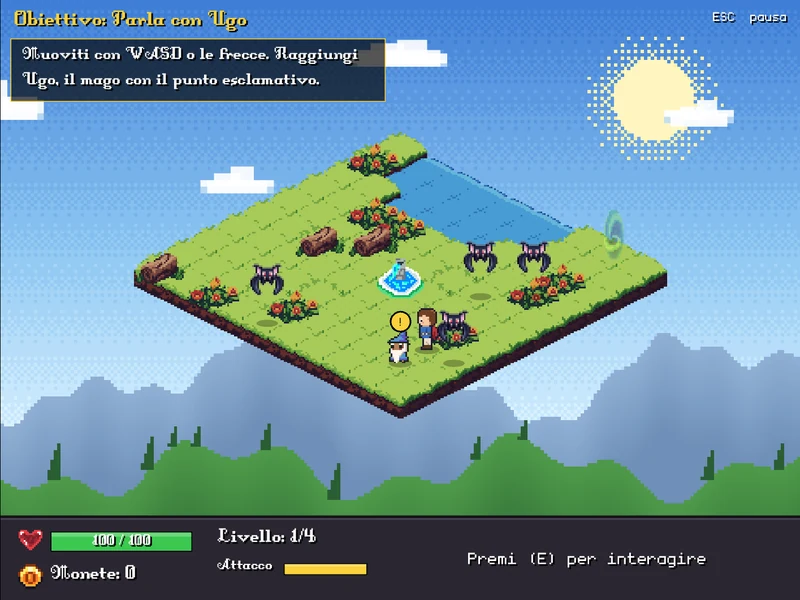
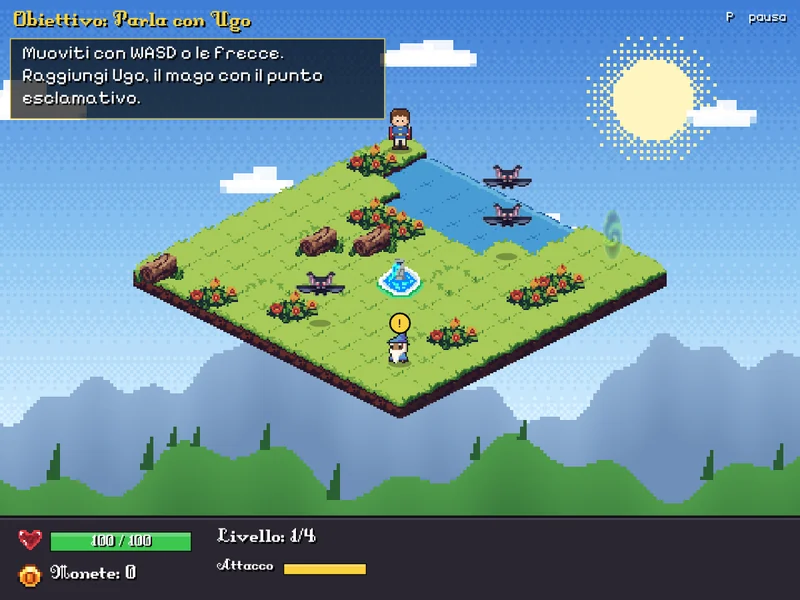
fix(mobile): layout con testo di sistema ingrandito e rifiniture dell'audit mobile
- Home: il menu passa da 2 (o 4) colonne a 1 con il testo ingrandito
  (container query in em), e oltre il 200% foto, nome e menu si
  impilano; "@vincenzo<wbr>allocca" va a capo tra le due parole.
- Titoli delle pagine interne e "HASTE" della home limitati alla
  larghezza della card (cqi); schede dei fatti ed elenco progetti
  scendono a una colonna invece di uscire dalla card.
- Testi a 12 px: contatore BUMP, stato, opzioni di condivisione,
  etichette Tech stack.
- Hover solo con un puntatore (pagine interne e 404); 404 con
  text-size-adjust per iOS in orizzontale.
- Nemici Miei: nuova schermata catturata dal gioco, 800 px e 1200 px
  con srcset (nitida sugli schermi 3x, 66 KB invece di 75 KB), alt e
  dati strutturati aggiornati.

A dimensione normale l'aspetto resta identico (altezze delle pagine
entro 2 px su 10 dispositivi).

diff --git a/index.html b/index.html
@@ -325,14 +325,14 @@ nav a:active{transform:scale(.98)}
 .bump-btn[aria-busy="true"]{cursor:progress;opacity:.85}
 .bump-main{display:inline-flex;align-items:center;gap:.4rem;font-family:var(--display);font-size:1rem;font-weight:800;font-stretch:115%;letter-spacing:.04em;line-height:1.1}
 .bump-ic{font-size:1.05rem;line-height:1}
-.bump-count{font-size:.72rem;font-weight:600;color:var(--accent-hi);font-variant-numeric:tabular-nums;line-height:1.3}
+.bump-count{font-size:.75rem;font-weight:600;color:var(--accent-hi);font-variant-numeric:tabular-nums;line-height:1.3}
 .bump-btn[data-state="bumped"]{border-color:rgba(244,114,182,.5);background:linear-gradient(135deg,rgba(244,114,182,.2),rgba(169,155,255,.16));box-shadow:inset 0 1px 0 rgba(255,255,255,.22)}
 .bump-btn[data-state="bumped"] .bump-main{font-size:.82rem;letter-spacing:.03em}
 .share-panel{width:100%;display:grid;grid-template-columns:1fr;gap:.25rem}
 .share-panel[hidden]{display:none}
 .share-opt{
   display:flex;align-items:center;gap:.45rem;min-height:2.2rem;padding:.3rem .6rem;border-radius:.7rem;
-  font-family:var(--font-body);font-size:.74rem;font-weight:600;line-height:1.2;text-align:left;color:var(--text-secondary);
+  font-family:var(--font-body);font-size:.75rem;font-weight:600;line-height:1.2;text-align:left;color:var(--text-secondary);
   border:1px solid rgba(255,255,255,.1);background:rgba(255,255,255,.03);
   transition:background .2s,border-color .2s,color .2s,transform .2s;
 }
@@ -341,8 +341,8 @@ nav a:active{transform:scale(.98)}
 .share-opt:active{transform:scale(.97)}
 .share-opt[hidden]{display:none}
 .status:empty{min-height:0}
-.status{min-height:1.2em;font-size:.74rem;color:var(--accent-hi);text-align:center;transition:opacity .2s}
-.status .s2{display:block;margin-top:.1rem;font-size:.7rem;color:var(--text-secondary)}
+.status{min-height:1.2em;font-size:.75rem;color:var(--accent-hi);text-align:center;transition:opacity .2s}
+.status .s2{display:block;margin-top:.1rem;font-size:.75rem;color:var(--text-secondary)}
 
 /* ───────── CONTENUTO PRINCIPALE ───────── */
 /* Indicatore "c'è altro" della card con scroll interno (solo desktop): compare finché resta contenuto
@@ -431,11 +431,11 @@ h2{font-family:var(--display);font-size:1rem;font-weight:680;font-stretch:110%;l
 
 /* Progetto in evidenza: HASTE */
 .feature{
-  border-color:rgba(169,155,255,.5);padding:1.15rem 1.1rem;
+  container-type:inline-size;border-color:rgba(169,155,255,.5);padding:1.15rem 1.1rem;
   background:linear-gradient(155deg,rgba(140,194,255,.2),rgba(169,155,255,.12) 55%,rgba(244,114,182,.08)),rgba(5,8,28,.38);
   box-shadow:inset 0 1px 0 rgba(255,255,255,.3),0 0 0 1px rgba(169,155,255,.14),0 14px 34px -12px rgba(124,183,255,.35);
 }
-.feature h2{font-size:clamp(1.9rem,8vw,2.3rem);font-weight:800;font-stretch:125%;letter-spacing:-.04em;line-height:1;margin-bottom:.35rem}
+.feature h2{font-size:min(clamp(1.9rem,8vw,2.3rem),22cqi);font-weight:800;font-stretch:125%;letter-spacing:-.04em;line-height:1;margin-bottom:.35rem}
 .feature .role{font-size:.84rem;font-weight:600;color:var(--accent-hi);margin-bottom:.6rem}
 
 .chips{display:flex;flex-wrap:wrap;gap:.35rem;margin-top:.65rem}
@@ -501,14 +501,23 @@ a.tile:active{background-color:rgba(60,80,170,.55)}
   .o3{left:28%;bottom:-6rem}
   .o4{left:auto;right:8%;top:1%}
   .ring{left:auto;right:-3rem;top:18%}
-  .wrap{flex-direction:column;justify-content:flex-start;align-items:stretch;gap:1rem;max-width:32rem;margin:0 auto;padding:1rem}
-  .side{width:100%;display:grid;grid-template-columns:auto 1fr;grid-template-areas:"av nick" "av quote" "line line" "nav nav" "act act";align-items:center;column-gap:1rem;row-gap:.15rem;padding:1rem}
+  .wrap{flex-direction:column;justify-content:flex-start;align-items:stretch;gap:1rem;max-width:32rem;margin:0 auto;padding:1rem;container:wrap/inline-size}
+  .side{width:100%;display:grid;grid-template-columns:auto minmax(0,1fr);grid-template-areas:"av nick" "av quote" "line line" "nav nav" "act act";align-items:center;column-gap:1rem;row-gap:.15rem;padding:1rem}
   .avatar{grid-area:av;margin-bottom:.2rem}
-  .avatar img{width:4.5rem;height:4.5rem}
-  .side .nick{grid-area:nick;align-self:end;text-align:left}.side .quote{grid-area:quote;align-self:start;text-align:left;white-space:normal}
+  .avatar img{width:min(4.5rem,22vw);height:min(4.5rem,22vw)} /* con il testo molto ingrandito la foto non spinge fuori nome e menu */
+  .side .nick{grid-area:nick;align-self:end;text-align:left}.side .quote{grid-area:quote;align-self:start;text-align:left;white-space:normal;overflow-wrap:break-word}
   hr{grid-area:line;margin:.45rem 0}
-  nav{grid-area:nav}
-  nav ul{display:grid;grid-template-columns:repeat(2,1fr);gap:.45rem}
+  nav{grid-area:nav;container-type:inline-size}
+  nav ul{display:grid;grid-template-columns:repeat(2,minmax(0,1fr));gap:.45rem}
+  /* Le soglie sono in em: con il testo di sistema ingrandito le schede passano da 2 colonne a 1 invece di uscire dalla card */
+  @container (max-width:14.75em){nav ul{grid-template-columns:minmax(0,1fr)}}
+  /* Testo molto ingrandito (colonna sotto 18em; a dimensione normale anche i telefoni da 320 px restano sopra 19em):
+     foto, nome e menu uno sotto l'altro, come nella barra laterale del desktop, invece di spezzare il nome */
+  @container wrap (max-width:18em){
+    .side{grid-template-columns:minmax(0,1fr);grid-template-areas:"av" "nick" "quote" "line" "nav" "act"}
+    .avatar{justify-self:center}
+    .side .nick,.side .quote{text-align:center;align-self:auto}
+  }
   nav li{width:100%}
   nav a{width:100%;min-height:2.75rem;background:rgba(255,255,255,.06);border:1px solid rgba(255,255,255,.16);justify-content:center}
   .side-actions{grid-area:act;margin-top:.4rem}
@@ -521,11 +530,12 @@ a.tile:active{background-color:rgba(60,80,170,.55)}
   .tile{flex:1;width:auto;min-height:8rem;font-size:.82rem}
   .tile .mini b{font-size:.86rem}
   .tile .mini span{font-size:.78rem}
-  .tile .chips li{font-size:.74rem;padding:.1rem .55rem}
+  .tile .chips li{font-size:.75rem;padding:.1rem .5rem}
 }
 @media (min-width:600px) and (max-width:900px){
   .wrap{max-width:38rem;padding:1.5rem}
-  nav ul{grid-template-columns:repeat(4,1fr)}
+  @container (min-width:13em){nav ul{grid-template-columns:repeat(2,minmax(0,1fr))}}
+  @container (min-width:26.5em){nav ul{grid-template-columns:repeat(4,minmax(0,1fr))}}
   nav a{padding:.4rem .4rem;gap:.35rem}
 }
 @media (max-width:540px){
@@ -538,7 +548,7 @@ a.tile:active{background-color:rgba(60,80,170,.55)}
 @media (max-height:500px) and (orientation:landscape) and (max-width:900px){
   .side .quote{display:none}
   .avatar img{width:3rem;height:3rem}
-  nav ul{grid-template-columns:repeat(4,1fr)}
+  @container (min-width:29.75em){nav ul{grid-template-columns:repeat(4,minmax(0,1fr))}}
 }
 @media (max-width:380px){
   .wrap{padding:.75rem}
@@ -547,11 +557,13 @@ a.tile:active{background-color:rgba(60,80,170,.55)}
   .side .nick{font-size:.95rem}
   .side .quote{font-size:.75rem}
   nav a{padding:.35rem .35rem;gap:.35rem}
+  @container (min-width:12.75em){nav ul{grid-template-columns:repeat(2,minmax(0,1fr))}}
   .projects a{padding:.5rem .6rem}
 }
 @media (max-width:330px){
   .wrap{padding:.5rem}
   nav a{font-size:.84rem;padding:.35rem .25rem;gap:.3rem}
+  @container (min-width:11.6em){nav ul{grid-template-columns:repeat(2,minmax(0,1fr))}}
   .avatar img{width:3.25rem;height:3.25rem}
 }
 
@@ -583,7 +595,7 @@ a.tile:active{background-color:rgba(60,80,170,.55)}
 <div class="wrap">
   <header class="glass side">
     <div class="avatar"><img src="assets/profilo.webp" alt="Foto profilo di Vincenzo Allocca" width="96" height="96" fetchpriority="high" decoding="async"></div>
-    <p class="nick">@vincenzoallocca</p>
+    <p class="nick">@vincenzo<wbr>allocca</p>
     <p class="quote">Software Developer, fondatore di HASTE</p>
     <hr>
     <nav aria-label="Menu principale">

diff --git a/assets/css/pagina.css b/assets/css/pagina.css
@@ -36,7 +36,6 @@ body{
   padding:env(safe-area-inset-top) env(safe-area-inset-right) env(safe-area-inset-bottom) env(safe-area-inset-left);
 }
 a{color:var(--accent-hi);text-decoration:underline;text-decoration-color:rgba(191,224,255,.45);text-underline-offset:.18em}
-a:hover{color:#fff;text-decoration-color:currentColor}
 a:focus-visible,button:focus-visible{outline:2px solid var(--accent-hi);outline-offset:3px;border-radius:.4rem}
 ::selection{background:rgba(140,194,255,.4);color:#fff}
 .skip{position:absolute;left:.75rem;top:-5rem;z-index:10;display:inline-flex;align-items:center;min-height:2.75rem;padding:.6rem 1rem;border-radius:.8rem;background:#0e1432;color:#fff;border:1px solid var(--edge);font-weight:600;text-decoration:none;transition:top .2s}
@@ -58,9 +57,10 @@ a:focus-visible,button:focus-visible{outline:2px solid var(--accent-hi);outline-
   box-shadow:inset 0 1px 0 rgba(255,255,255,.22),0 24px 60px -12px rgba(0,0,0,.55);
 }
 .card+.card{margin-top:1rem}
-.hero{border-color:rgba(169,155,255,.5);background:linear-gradient(155deg,rgba(140,194,255,.2),rgba(169,155,255,.12) 55%,rgba(244,114,182,.08)),rgba(10,15,42,.72)}
-h1{font-size:clamp(2.2rem,8vw,3.2rem);line-height:1;font-weight:800;font-stretch:125%;letter-spacing:-.04em;color:#fff;margin:.1rem 0 .7rem;text-wrap:balance}
-h2{font-size:1.25rem;font-weight:720;font-stretch:112%;letter-spacing:-.02em;line-height:1.2;color:#fff;margin-bottom:.6rem;text-wrap:balance}
+.hero{container-type:inline-size;border-color:rgba(169,155,255,.5);background:linear-gradient(155deg,rgba(140,194,255,.2),rgba(169,155,255,.12) 55%,rgba(244,114,182,.08)),rgba(10,15,42,.72)}
+/* min(…,13cqi): con il testo di sistema molto ingrandito il titolo si adatta alla card invece di uscirne; a dimensione normale vale sempre il clamp */
+h1{font-size:min(clamp(2.2rem,8vw,3.2rem),13cqi);overflow-wrap:break-word;line-height:1;font-weight:800;font-stretch:125%;letter-spacing:-.04em;color:#fff;margin:.1rem 0 .7rem;text-wrap:balance}
+h2{font-size:1.25rem;font-weight:720;font-stretch:112%;letter-spacing:-.02em;line-height:1.2;color:#fff;margin-bottom:.6rem;text-wrap:balance;overflow-wrap:break-word}
 h3{font-size:1rem;font-weight:680;color:var(--accent-hi);margin:1rem 0 .3rem}
 p{color:#e2ecff}
 p+p{margin-top:.65rem}
@@ -70,7 +70,7 @@ p+p{margin-top:.65rem}
 .card li+li{margin-top:.35rem}
 .card li::marker{color:var(--accent)}
 
-.facts{display:grid;grid-template-columns:repeat(auto-fit,minmax(8.5rem,1fr));gap:.6rem;margin-top:1rem}
+.facts{display:grid;grid-template-columns:repeat(auto-fit,minmax(min(100%,8.5rem),1fr));gap:.6rem;margin-top:1rem}
 .facts div{padding:.65rem .8rem;border-radius:.9rem;background:rgba(255,255,255,.05);border:1px solid rgba(255,255,255,.1)}
 .facts dt{font-size:.78rem;font-weight:600;color:var(--muted);text-transform:uppercase;letter-spacing:.06em}
 .facts dd{font-weight:650;color:#fff;line-height:1.35}
@@ -88,14 +88,12 @@ p+p{margin-top:.65rem}
   box-shadow:inset 0 1px 0 rgba(255,255,255,.3),0 6px 16px -6px rgba(0,0,0,.4);
   transition:background .2s var(--ease),border-color .2s var(--ease);
 }
-.btn:hover{background:linear-gradient(135deg,rgba(140,194,255,.45),rgba(169,155,255,.36));border-color:rgba(255,255,255,.35)}
 .btn.ghost{background:rgba(255,255,255,.04)}
 
 .note{font-size:.85rem;color:var(--muted);margin-top:.9rem}
-.list{list-style:none;padding:0!important;display:grid;gap:.6rem}
+.list{list-style:none;padding:0!important;display:grid;grid-template-columns:minmax(0,1fr);gap:.6rem}
 .list li{margin:0!important}
-.list a{display:block;padding:.8rem .95rem;border-radius:1rem;background:rgba(255,255,255,.05);border:1px solid rgba(255,255,255,.12);text-decoration:none}
-.list a:hover{background:rgba(255,255,255,.1);border-color:rgba(255,255,255,.24)}
+.list a{display:block;overflow-wrap:break-word;padding:.8rem .95rem;border-radius:1rem;background:rgba(255,255,255,.05);border:1px solid rgba(255,255,255,.12);text-decoration:none}
 .list b{display:block;color:#fff}
 .list span{display:block;color:var(--muted);font-size:.9rem}
 
@@ -138,4 +136,11 @@ p,li{text-wrap:pretty}
   font-size:1.15rem;font-weight:750;color:#fff;text-decoration:none;background:rgba(140,20,20,.92);border:2px solid #fff;
   box-shadow:0 10px 30px -6px rgba(0,0,0,.7);transition:transform .2s var(--ease),background .2s var(--ease)}
 .play::before{content:"▶ "}
-.play:hover{color:#fff;background:#b41e1e;transform:scale(1.05)}
+
+/* Effetti al passaggio del puntatore solo dove c'è un puntatore: sui telefoni non restano accesi dopo il tocco */
+@media (hover:hover){
+  a:hover{color:#fff;text-decoration-color:currentColor}
+  .btn:hover{background:linear-gradient(135deg,rgba(140,194,255,.45),rgba(169,155,255,.36));border-color:rgba(255,255,255,.35)}
+  .list a:hover{background:rgba(255,255,255,.1);border-color:rgba(255,255,255,.24)}
+  .play:hover{color:#fff;background:#b41e1e;transform:scale(1.05)}
+}

diff --git a/progetti/nemici-miei/index.html b/progetti/nemici-miei/index.html
@@ -37,12 +37,12 @@
       "name": "Nemici Miei: gioca nel browser",
       "description": "Nemici Miei, gioco d'avventura isometrico nato per il PCTO 2024–2025 e riscritto in Rust, giocabile nel browser anche da telefono.",
       "inLanguage": "it-IT",
-      "dateModified": "2026-11-22T14:00:00+01:00",
+      "dateModified": "2026-11-23T15:39:15+01:00",
       "isPartOf": { "@id": "https://vincenzoallocca.dev/#website" },
       "about": { "@id": "https://vincenzoallocca.dev/progetti/nemici-miei/#gioco" },
       "author": { "@id": "https://vincenzoallocca.dev/#person" },
       "breadcrumb": { "@id": "https://vincenzoallocca.dev/progetti/nemici-miei/#breadcrumb" },
-      "primaryImageOfPage": "https://vincenzoallocca.dev/assets/nemici-miei.webp"
+      "primaryImageOfPage": "https://vincenzoallocca.dev/assets/nemici-miei-1200.webp"
     },
     {
       "@type": "BreadcrumbList",
@@ -65,7 +65,7 @@
       "name": "Nemici Miei",
       "description": "Gioco d'avventura in vista isometrica in quattro livelli: parla con Ugo, bevi alla fontanella, sconfiggi lo stormo sulla spiaggia, raccogli le monete tra le rovine e sconfiggi il boss.",
       "url": "https://vincenzoallocca.dev/progetti/nemici-miei/",
-      "image": "https://vincenzoallocca.dev/assets/nemici-miei.webp",
+      "image": "https://vincenzoallocca.dev/assets/nemici-miei-1200.webp",
       "genre": "Avventura",
       "gamePlatform": ["Browser web", "PC"],
       "applicationCategory": "Game",
@@ -126,7 +126,7 @@
       <section class="card" aria-labelledby="gioca">
         <h2 id="gioca">Gioca</h2>
         <div class="gioco" id="gioco">
-          <img src="/assets/nemici-miei.webp" alt="Schermata di Nemici Miei: l'eroe con il mantello rosso accanto al mago Ugo, vicino alla fontanella, mentre i pipistrelli si avvicinano" width="800" height="600">
+          <img src="/assets/nemici-miei.webp" srcset="/assets/nemici-miei.webp 800w, /assets/nemici-miei-1200.webp 1200w" sizes="(max-width:46rem) calc(100vw - 3.75rem), 41rem" alt="Schermata di Nemici Miei all'inizio del primo livello: l'eroe con il mantello rosso in cima all'isola sospesa, il mago Ugo con il punto esclamativo vicino alla fontanella e i pipistrelli in volo" width="800" height="600">
           <a class="play" id="avvia" href="/progetti/nemici-miei/gioco/">Gioca</a>
         </div>
         <div class="actions">

diff --git a/404.html b/404.html
@@ -14,7 +14,7 @@
 @media (prefers-reduced-motion:no-preference){@view-transition{navigation:auto}}
 @font-face{font-family:'Mona Sans';font-weight:400 800;font-stretch:100% 125%;font-display:swap;src:url('/assets/fonts/mona-sans.woff2') format('woff2')}
 *,*::before,*::after{box-sizing:border-box;margin:0;padding:0}
-html{background:#050816;color-scheme:dark}
+html{background:#050816;color-scheme:dark;-webkit-text-size-adjust:100%;text-size-adjust:100%}
 body{
   min-height:100vh;min-height:100dvh;
   display:grid;place-items:center;padding:1.5rem;color:#f4f7ff;text-align:center;
@@ -45,7 +45,7 @@ a{
   background:linear-gradient(135deg,rgba(140,194,255,.28),rgba(169,155,255,.2));
   transition:background .2s,border-color .2s,transform .2s;
 }
-a:hover{background:linear-gradient(135deg,rgba(140,194,255,.4),rgba(169,155,255,.32));border-color:rgba(255,255,255,.35)}
+@media (hover:hover){a:hover{background:linear-gradient(135deg,rgba(140,194,255,.4),rgba(169,155,255,.32));border-color:rgba(255,255,255,.35)}}
 a:active{transform:scale(.98)}
 a:focus-visible{outline:2px solid #8cc2ff;outline-offset:3px}
 </style>
